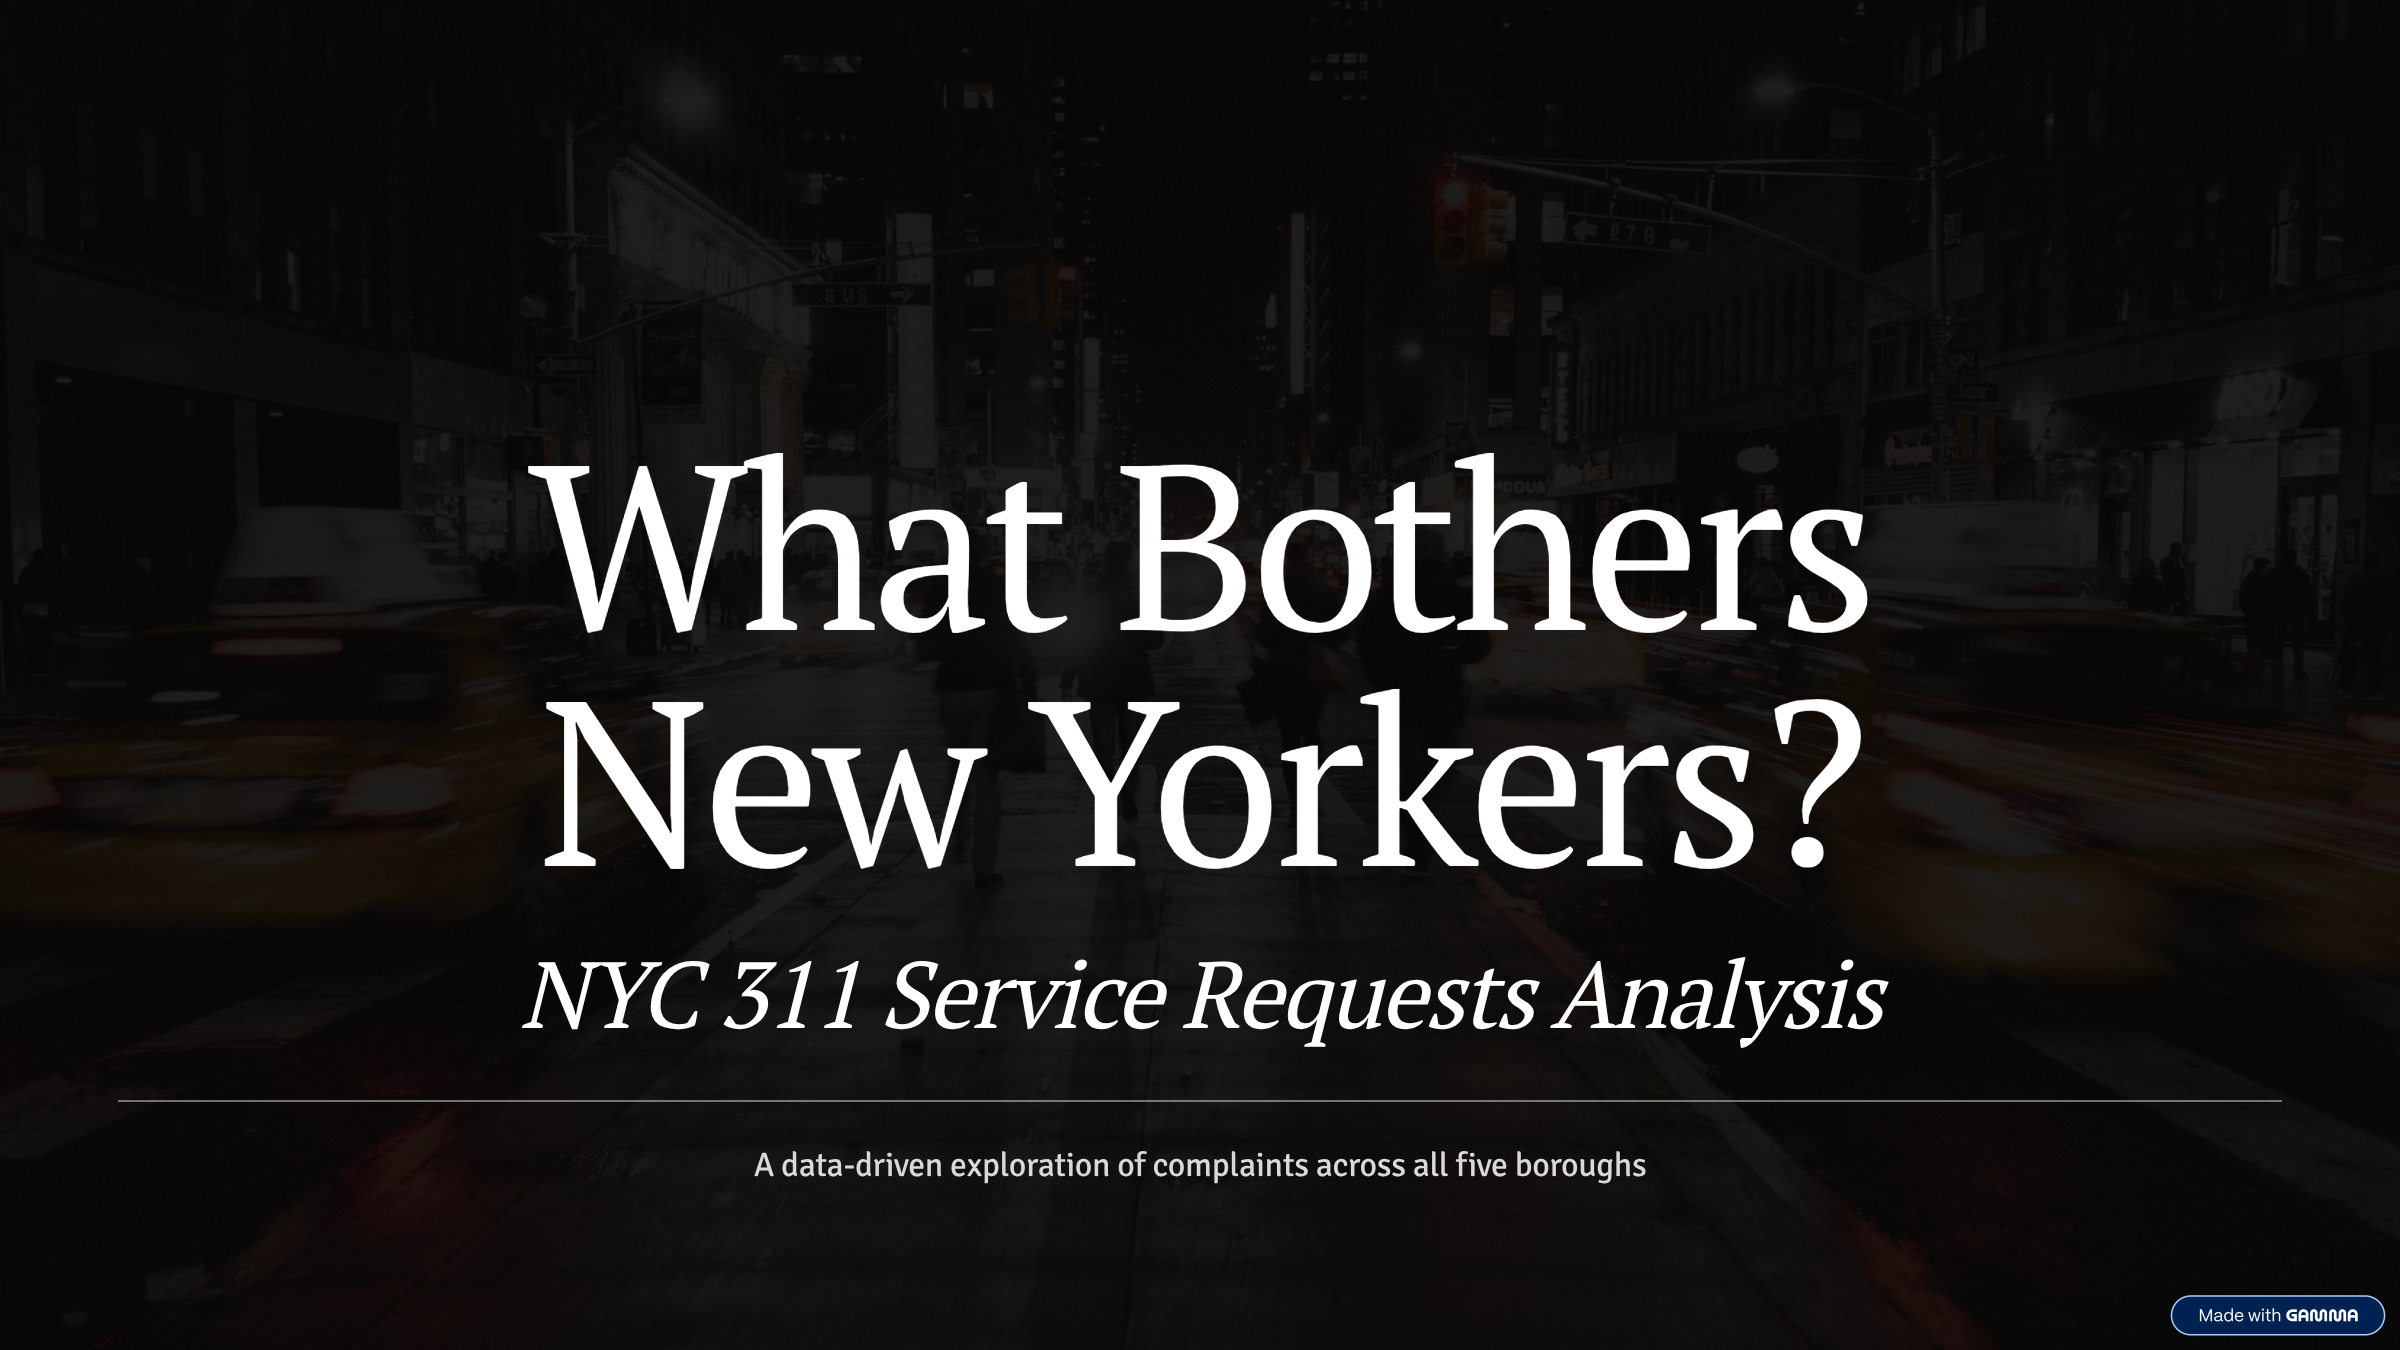
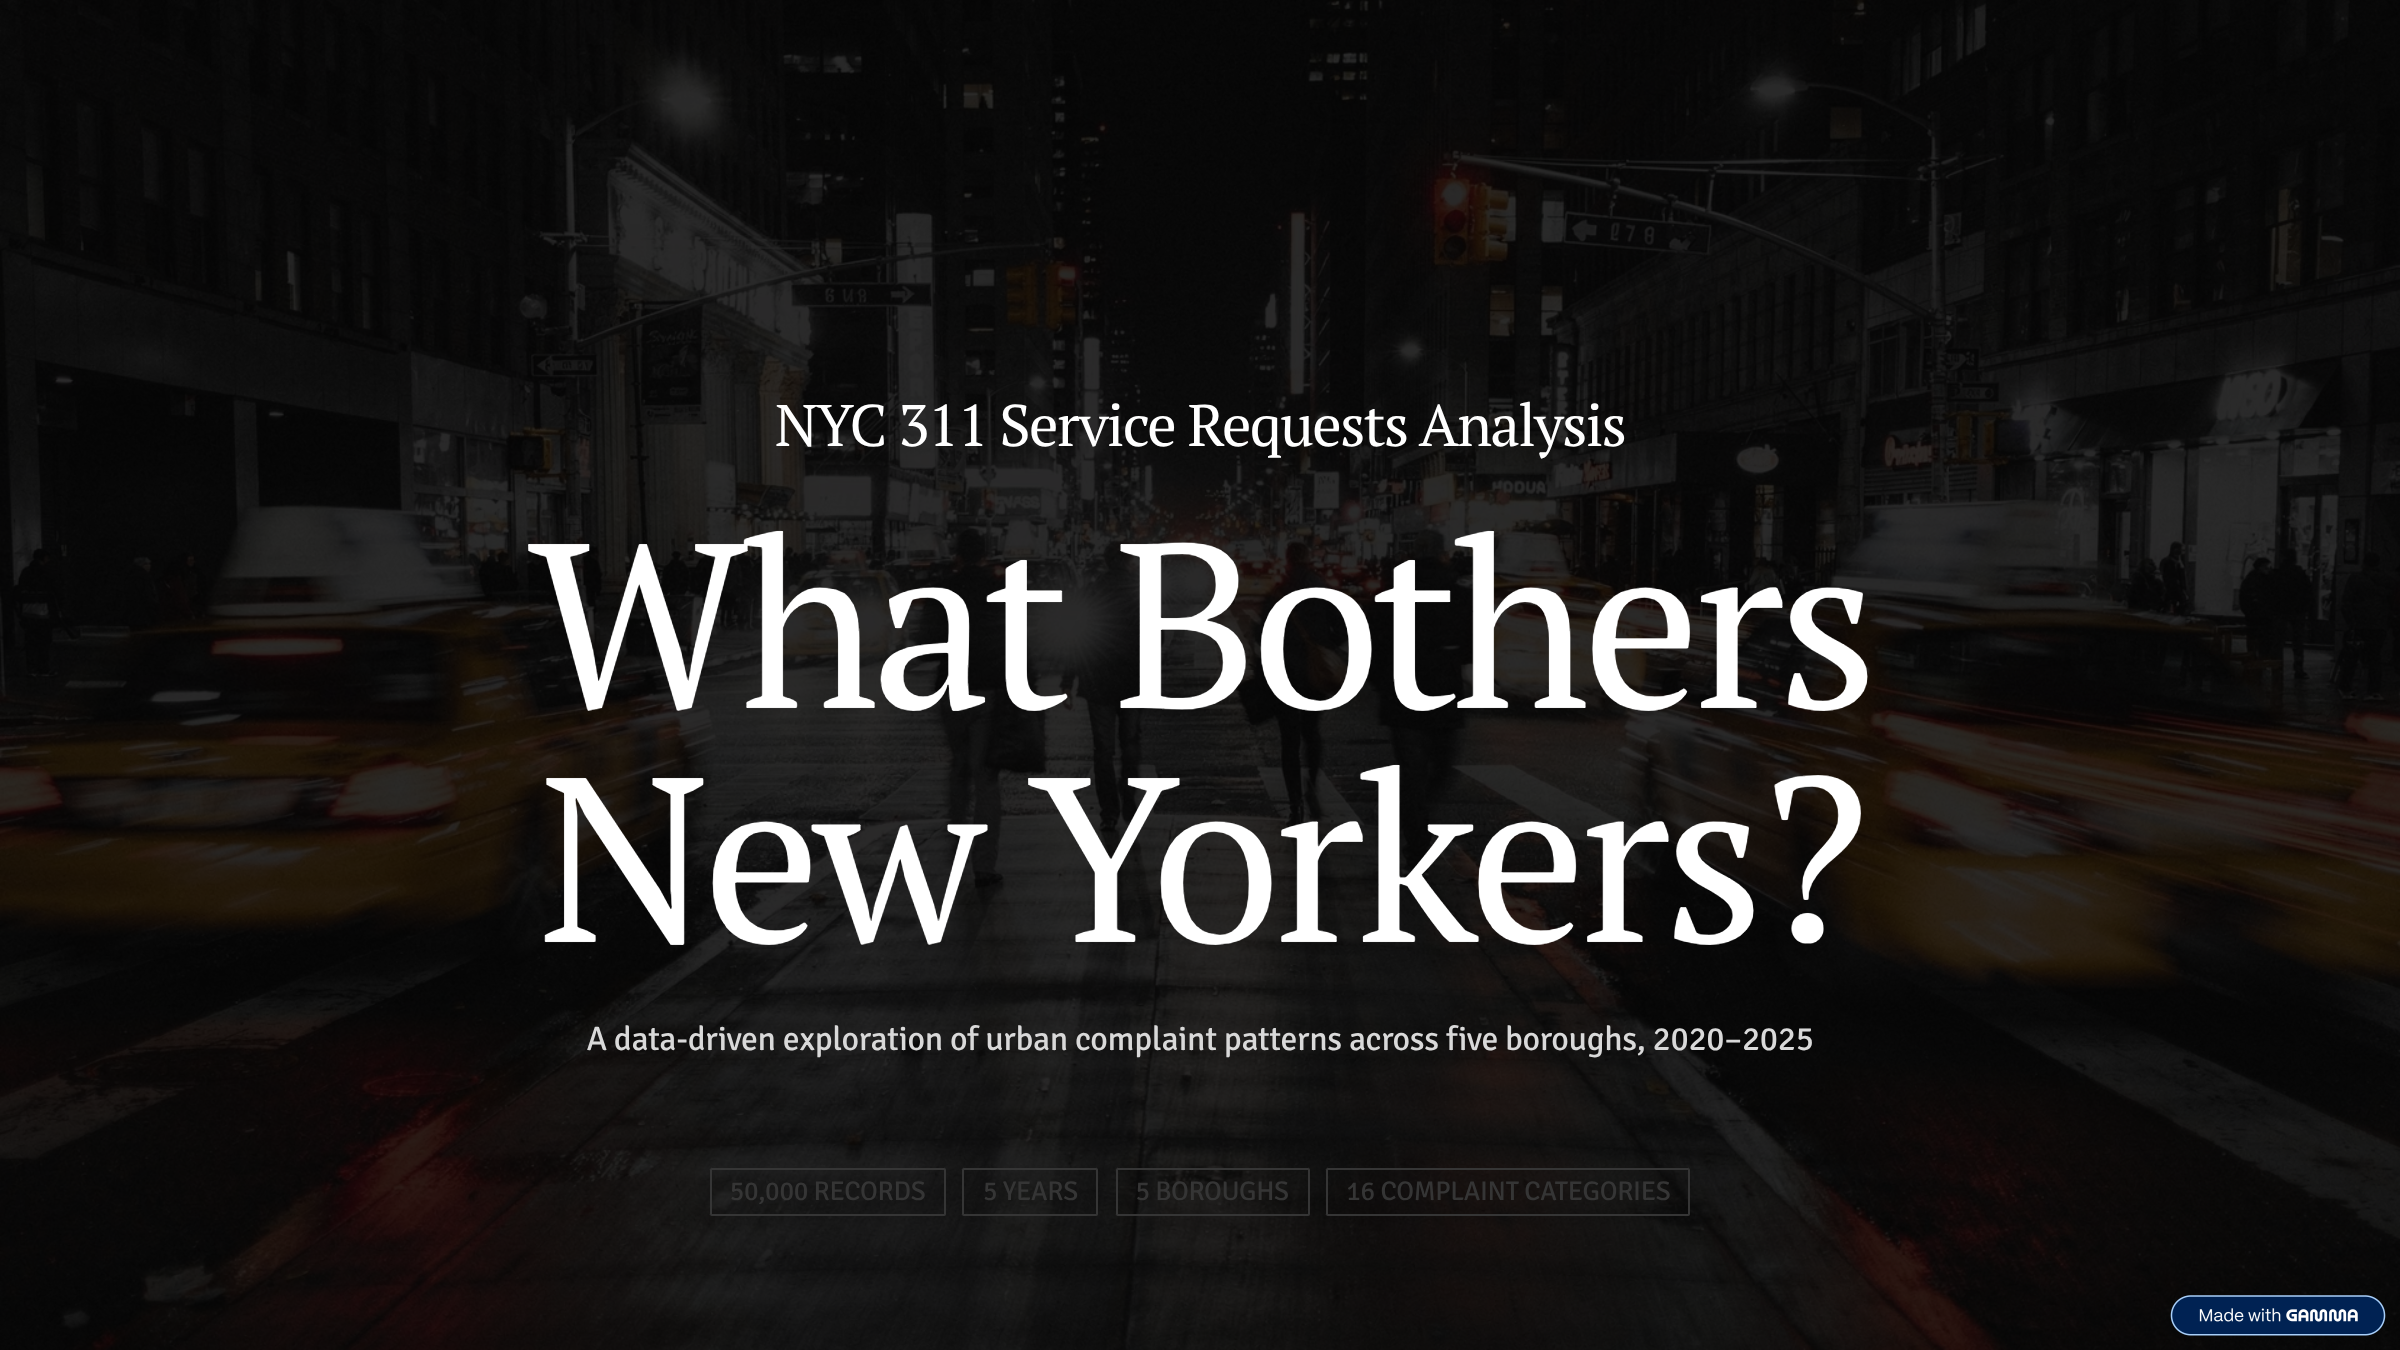
New slides and video script

Changed region(s): [[0.2188, 0.28, 0.7812, 0.7778], [0.3125, 0.84, 0.6875, 0.9022]]

diff --git a/final_project/video/GAMMA_AI_PROMPT.md b/final_project/video/GAMMA_AI_PROMPT.md
@@ -1,0 +1,129 @@
+# Gamma.app Slide Generation Prompt
+
+You are creating a 7-slide academic presentation for a university final project. This is a 1-minute concept video introducing a data analysis project on NYC's 311 service request system. Generate slides that are academic, data-focused, and visually clear. Each slide should support the narration and include the specified data visualizations.
+
+---
+
+## Slide 1: Central Idea - "What Bothers New Yorkers?"
+
+**Content:**
+- Title: "What Bothers New Yorkers?"
+- Subtitle: NYC 311 Service Requests Analysis
+- Brief context: A data-driven exploration of urban complaint patterns
+- Show an iconic NYC skyline or silhouette in the background (subtle)
+
+**Visual:** Professional title slide with clean typography and NYC-themed color palette.
+
+---
+
+## Slide 2: Dataset Overview - Size and Properties
+
+**Content:**
+- Title: "Dataset Overview - Size and Properties"
+- 50,000 NYC 311 service requests (2020-2025)
+- 5 years of data, January 2020 - March 2025
+- 5 boroughs, 514 community boards
+- 10 variables, zero missing values
+- 16 complaint categories
+- Emphasis: High-quality, complete dataset
+
+**Visual:** Create an infographic layout with icons for:
+- A map icon showing "5 Boroughs"
+- A calendar showing "5 Years (2020-2025)"
+- A database/table icon showing "50,000 Records"
+- A checkbox showing "Zero Missing Values"
+
+---
+
+## Slide 3: Fundamental Distribution - Complaint Types
+
+**Content:**
+- Title: "Top Complaint Types Distribution"
+- Create a horizontal bar chart or pie chart showing:
+  - Heat: 13.5%
+  - Water: 11.0%
+  - Rodent: 10.3%
+  - Others: 65.2%
+- Call-out box: "Top 3 = 34.8% of ALL complaints"
+- Insight: Infrastructure and housing maintenance dominate
+
+**Visual:** A clear bar chart or pie chart with Heat, Water, and Rodent highlighted in distinct colors. Use a dark background to make percentages pop. Add a highlight box showing "34.8%".
+
+---
+
+## Slide 4: Geographic Properties - Borough-Level Patterns
+
+**Content:**
+- Title: "Geographic Distribution: Complaints by Borough"
+- Create a pie chart or horizontal bar chart:
+  - Manhattan: 25%
+  - Brooklyn: 22%
+  - Queens: 20%
+  - Bronx: 20%
+  - Staten Island: 13%
+- Key insight: Distribution reflects population density differences
+- Equity question: Does more complaints = fewer resources?
+
+**Visual:** A geographic visualization (pie chart with borough labels, or a stylized NYC map showing each borough with complaint percentages). Use 5 distinct colors for each borough. Consider subtle Manhattan prominence.
+
+---
+
+## Slide 5: Key Finding - Resolution Time Analysis
+
+**Content:**
+- Title: "Resolution Time: Fair Resource Allocation"
+- Main finding: All 5 boroughs average ~30 days response time
+- Negligible differences: Less than 1 day between fastest and slowest
+- Create a line chart or bar chart showing flat/near-flat response times across boroughs
+- Call-out: "Equitable service regardless of neighborhood wealth"
+
+**Visual:** A line graph or bar chart with all 5 boroughs on the x-axis and resolution time (~30 days) on the y-axis. Show the line as nearly flat to emphasize uniformity. Use green or a positive color to suggest equity/fairness.
+
+---
+
+## Slide 6: Temporal Distribution - Seasonality in Complaints
+
+**Content:**
+- Title: "Seasonal Patterns: 2020-2025"
+- Show a line chart or bar chart with seasonal breakdown:
+  - Winter (Dec-Feb): 27.4%
+  - Spring (Mar-May): 23.2%
+  - Summer (Jun-Aug): 23.3%
+  - Fall (Sep-Nov): 26.0%
+- Key insight: Overall trend is STABLE—predictable, not deteriorating
+- Winter peaks driven by heating-related complaints
+
+**Visual:** A line graph or stacked bar chart showing complaint volume by season. Use seasonal colors (blue for winter, green for spring/summer, orange/brown for fall). Include a notation showing "Overall Trend: STABLE" to emphasize the key finding.
+
+---
+
+## Slide 7: Genre - Data-Driven Exploratory Narrative
+
+**Content:**
+- Title: "Genre: Data-Driven Exploratory Narrative"
+- Three pillars (use boxes or visual sections):
+  1. **Story Emerges from Data** - Actual patterns, not assumptions
+  2. **Progressive Insight** - Move from distributions to equity questions
+  3. **Why This Works** - Genuinely exploring urban resource allocation, not illustrating predetermined conclusions
+- Bottom call-out: "This genre lets the data tell the story"
+
+**Visual:** Create 3 distinct visual boxes or sections (e.g., left-to-right flow) representing the three pillars. Use icons or imagery:
+- Data/graphs for "Story Emerges from Data"
+- Stacked insights/layers for "Progressive Insight"
+- Question mark or thought bubble for "Why This Works"
+Use a clean, minimalist design with high contrast text.
+
+---
+
+## General Design Notes:
+- Color scheme: Professional academic palette (navy, white, accent colors like teal or orange)
+- Font: Clean, modern sans-serif (e.g., Arial, Helvetica, or similar)
+- Use data visualization best practices: clear labels, appropriate chart types, high contrast
+- Each slide should be readable on screen during a 1-minute video
+- Avoid cluttered layouts; prioritize clarity and data focus
+- All text should be large enough to read easily in a video presentation
+
+---
+
+## Timing Note:
+These 7 slides will support a ~1-minute narrated video. Plan for smooth transitions between slides at natural narration breaks.

diff --git a/final_project/video/PART_A_VIDEO_SCRIPT_NEW.md b/final_project/video/PART_A_VIDEO_SCRIPT_NEW.md
@@ -4,35 +4,33 @@
 
 ## NARRATION SCRIPT FOR TEXT-TO-SPEECH
 
-*new slide* Title: "What Bothers New Yorkers?"
+*new slide* Central Idea: "What Bothers New Yorkers?"
 
-Every day, thousands of New Yorkers file 311 complaints—reporting everything from broken heating to rodent infestations to broken streets. But what problems matter most? And does the city treat all neighborhoods fairly? This is a data-driven exploratory narrative—we're using actual data patterns to uncover stories about how cities work.
+Hi, in this presentation I'm exploring NYC's 311 complaints to identify which infrastructure issues matter most and whether resources are fairly allocated across neighborhoods.
 
-*new slide* Data Overview
+*new slide* Dataset Overview - Size and Properties
 
-For our analysis, we gathered 50,000 311 service complaints spanning five years—2020 to 2025—covering all five NYC boroughs and 514 community boards. The dataset contains 10 key variables with zero missing values, giving us excellent data quality to work with.
+50,000 complaints from 2020 to 2025, 10 variables, zero missing values. Geographic data covering five boroughs and 514 community boards. High-quality data for analysis.
 
-*new slide* Top Complaint Types Distribution
+*new slide* Fundamental Distribution: Complaint Types
 
-We analyzed 16 different complaint categories. Here's what stands out: heat, water, and rodent problems dominate—accounting for 13.5%, 11%, and 10.3% of all complaints respectively. Together, these three categories make up one-third of ALL complaints. The remaining complaints are distributed across 13 other types. This concentration tells us infrastructure is the real challenge facing the city.
+Top complaints: Heat 13.5%, Water 11%, Rodents 10.3%—together 34.8% of all complaints across 16 types. Infrastructure issues dominate resident concerns.
 
-*new slide* Geographic Distribution by Borough
+*new slide* Geographic Properties: Borough-Level Patterns
 
-Manhattan reports the most complaints at 25%, followed by Brooklyn at 22%, Queens and the Bronx at about 20% each, and Staten Island at 13%. But here's the key insight: more complaints doesn't mean more problems. Manhattan has the highest population density, which naturally leads to more reports. Geographic data reveals patterns, but equity matters more.
+Manhattan 25%, Brooklyn 22%, Queens and Bronx 20% each, Staten Island 13%—reflecting population density. This lets us test equitable resource allocation.
 
-*new slide* Resolution Time Across Boroughs
+*new slide* Key Finding: Resolution Time Analysis
 
-This is our most important finding. NYC resolves complaints at nearly the same speed in every single borough—about 30 days on average across all five boroughs. The differences are negligible, less than one day. This is remarkable because it suggests fair resource allocation. Wealthy neighborhoods don't get faster service than low-income areas.
+Response time averages 30 days across all boroughs with less than one-day variation—revealing fair, equitable resource allocation.
 
-*new slide* Complaint Volume Over Time (2020-2025)
+*new slide* Temporal Distribution: Seasonality in Complaints
 
-Looking at temporal distributions, complaint volume has remained stable over the entire five-year period. We see seasonal patterns—winter peaks in December through February with heating-related complaints, then summer lows in June through August. Fall and spring show moderate levels. This stability tells us the city is managing its urban challenges well—they're not getting worse, just predictable and seasonal.
+Seasonal patterns: winter 27.4%, spring 23.2%, summer 23.3%, fall 26%. Complaint volume is stable over time—a predictable, manageable challenge.
 
-*new slide* Why This Genre Works for Our Story
+*new slide* Genre: Data-Driven Exploratory Narrative
 
-We chose a data-driven exploratory narrative because the story emerges directly from the data itself—not from opinions or illustrations, but from actual statistics about what residents complain about. We show you the data progressively, building from simple facts to complex insights. We don't just show numbers; we explain what they mean: that infrastructure matters, that equity exists, and that cities can improve by listening to their residents.
-
-This data shows where to invest: upgrade heating systems, manage pests, fix water infrastructure. By understanding what bothers New Yorkers most, the city can build better.
+Genre: data-driven exploratory narrative. The story emerges from actual data patterns, not assumptions. It allows progressive insight building from distributions to equity questions—genuinely exploring what data reveals about resource allocation.
 
 ---
 
